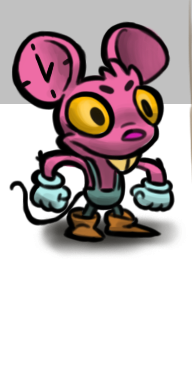
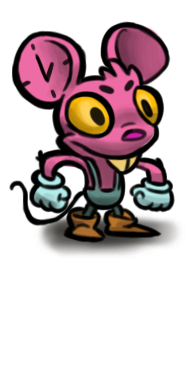
Hook up mice images.

Changed region(s): [[0.0, 0.0, 1.0, 0.4375]]

diff --git a/src/world.js b/src/world.js
@@ -1,20 +1,8 @@
 var WORLD = (function () {
     "use strict";
     
-    var TILE_WIDTH = 40,
-        TILE_HEIGHT = 40,
-        REPLAY_OFFSETS = [
-            {x:  2, y:  2},
-            {x:  4, y:  4},
-            {x:  6, y:  6},
-            {x:  8, y:  8},
-            {x: 10, y: 10},
-            {x: 12, y: 12},
-            {x: 14, y: 14},
-            {x: 16, y: 16},
-            {x: 18, y: 18},
-            {x: 20, y: 20}
-        ],
+    var TILE_WIDTH = 60,
+        TILE_HEIGHT = 60,
         DIRECTIONS = {
             right: 0,
             down: Math.PI / 2,
@@ -29,8 +17,15 @@ var WORLD = (function () {
             COUNT: 4
         },
         QTURN = Math.PI / 2,
-        TICK_TIME = 50;
-    
+        TICK_TIME = 50,
+        batch = new BLIT.Batch("images/"),
+        tile2x2 = batch.load("floor-tile.png"),
+        handA = batch.load("clock-hand.png"),
+        handB = batch.load("clock-hand-fixed.png");
+        
+    (function () {
+        batch.commit();
+    }());
     
     function actionName(action) {
         for (var a in TRIGGER_ACTIONS) {
@@ -282,6 +277,8 @@ var WORLD = (function () {
         if (this.editUpdate(now, elapsed, keyboard, pointer)) {
             return true;
         }
+        
+        AGENT.updateAnims(elapsed);
 
         var sweeping = false;
         for (var h = 0; h < this.hands.length; ++h) {
@@ -422,16 +419,28 @@ var WORLD = (function () {
     };
     
     World.prototype.draw = function (context, width, height) {
-        if (this.loading) {
+        if (this.loading || !batch.loaded) {
             BLIT.centeredText(context, "LOADING", width / 2, height / 2);
             return;
         }
-        for (var i = 0; i < this.width; ++i) {
-            for (var j = 0; j < this.height; ++j) {
-                var x = i * TILE_WIDTH,
+        var scale = 2 * TILE_WIDTH / tile2x2.width;
+        for (var i = 0; i < this.width; i += 2) {
+            var tileWidth = TILE_WIDTH,
+                sourceX = tile2x2.width * 0.5,
+                x = i * TILE_WIDTH;
+            if ((this.width - i) != 1) {
+                tileWidth = 2 * TILE_WIDTH;
+                sourceX = tile2x2.width;
+            }
+            for (var j = 0; j < this.height; j += 2) {
+                var tileHeight = TILE_HEIGHT,
+                    sourceY = tile2x2.height * 0.5,
                     y = j * TILE_HEIGHT;
-                
-                context.strokeRect(x + 1, y + 1, TILE_WIDTH - 2, TILE_HEIGHT - 2);
+                if ((this.height - j) != 1) {
+                    tileHeight = 2 * TILE_HEIGHT;
+                    sourceY = tile2x2.height;
+                }
+                context.drawImage(tile2x2, 0, 0, sourceX, sourceY, x, y, tileWidth, tileHeight);
             }
         }
         
@@ -443,14 +452,14 @@ var WORLD = (function () {
             this.hands[h].draw(context, this.editData !== null);
         }
         
-        this.player.draw(context, this);
+        this.player.draw(context, this, scale);
         for (var r = 0; r < this.replayers.length; ++r) {
             var replayer = this.replayers[r],
                 stepFraction = null;
             if (this.stepIndex == r && this.stepTimer !== null) {
                 stepFraction = 1 - (this.stepTimer / this.stepDelay);
             }
-            replayer.draw(context, this, REPLAY_OFFSETS[r], stepFraction);
+            replayer.draw(context, this, scale, stepFraction);
         }
     };
     
@@ -529,9 +538,6 @@ var WORLD = (function () {
     };
     
     World.prototype.rewind = function () {
-        if (this.replayers.length == REPLAY_OFFSETS.length) {
-            this.replayers = this.replayers.slice(1);
-        }
         for (var r = 0; r < this.replayers.length; ++r) {
             this.replayers[r].rewind();
         }

diff --git a/src/agent.js b/src/agent.js
@@ -1,7 +1,12 @@
 var AGENT = (function () {
     "use strict";
     
-    var BASE_OFFSET = 5;
+    var PLAYER_FRAME_TIME = 64,
+        batch = new BLIT.Batch("images/"),
+        playerAnim = new BLIT.Flip(batch, "mouse-A-idle-", 1, 2).setupPlayback(64, true),
+        replayerAnim = new BLIT.Flip(batch, "mouse-B-idle-", 1, 2).setupPlayback(64, true);
+    
+    
     
     function canMove(world, player, move) {
         return world.canMove(player, player.i + move.i, player.j + move.j);
@@ -22,6 +27,14 @@ var AGENT = (function () {
             return true;
         }
         return false;
+    }
+    
+    function draw(context, world, anim, x, y, scale) {
+        x += world.tileWidth * 0.5;
+        y += world.tileHeight * 0.5;
+        var width = anim.width(),
+            height = anim.height();
+        anim.draw(context, x, y, BLIT.ALIGN.Center, width * scale, height * scale);
     }
     
     function Player(i, j) {
@@ -81,9 +94,9 @@ var AGENT = (function () {
         return this.i == i && this.j == j;
     };
     
-    Player.prototype.draw = function (context, world) {
-        var x = this.i * world.tileWidth + BASE_OFFSET,
-            y = this.j * world.tileHeight + BASE_OFFSET,
+    Player.prototype.draw = function (context, world, imageScale) {
+        var x = this.i * world.tileWidth,
+            y = this.j * world.tileHeight,
             move = null,
             moveFraction = 0;
         
@@ -103,7 +116,7 @@ var AGENT = (function () {
             y += moveFraction * move.j * world.tileHeight;
         }
         
-        context.fillRect(x, y, 10, 10);
+        draw(context, world, playerAnim, x, y, imageScale);
     };
     
     function Replayer(i, j, moves) {
@@ -149,11 +162,10 @@ var AGENT = (function () {
         this.push = push;
     };
     
-    Replayer.prototype.draw = function (context, world, offset, moveFraction) {
+    Replayer.prototype.draw = function (context, world, imageScale, moveFraction) {
         context.save();
-        context.globalAlpha = 0.5;
-        var x = this.i * world.tileWidth + BASE_OFFSET,
-            y = this.j * world.tileHeight + BASE_OFFSET,
+        var x = this.i * world.tileWidth,
+            y = this.j * world.tileHeight,
             move = null;
         
         if (this.push !== null) {
@@ -169,13 +181,13 @@ var AGENT = (function () {
             x += world.tileWidth * move.i * moveFraction;
             y += world.tileWidth * move.j * moveFraction;
         }
-        
-        context.fillRect(x + offset.x, y + offset.y, 10, 10);
+        draw(context, world, replayerAnim, x, y, imageScale);
         context.restore();
     };
     
     return {
         Player: Player,
-        Replayer: Replayer
+        Replayer: Replayer,
+        updateAnims: function(elapsed) { BLIT.updatePlaybacks(elapsed, [playerAnim, replayerAnim]); }
     };
 }());

diff --git a/src/blit.js b/src/blit.js
@@ -194,7 +194,9 @@ var BLIT = (function () {
             update: function (elapsed) { flip.updatePlayback(elapsed, this); },
             draw: function (context, x, y, alignment, width, height, mirror, tint) {
                 flip.draw(context, this, x, y, alignment, width, height, mirror, tint);
-            }
+            },
+            width: function () { return flip.width(); },
+            height: function () { return flip.height(); }
         };
     };
     
@@ -217,6 +219,14 @@ var BLIT = (function () {
         var index = Math.min(this.frames.length - 1, Math.floor(playback.elapsed / playback.timePerFrame));
         
         draw(context, this.frames[index], x, y, alignment, width, height, mirror, tint);
+    };
+    
+    Flip.prototype.width = function () {
+        return this.frames[0].width;
+    };
+    
+    Flip.prototype.height = function () {
+        return this.frames[0].height;
     };
     
     function updatePlaybacks(elapsed, playbacks) {
